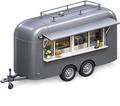
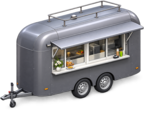
feat(places): add Titanic and construction markers

diff --git a/apps/www/src/components/places/PlaceMap.svelte b/apps/www/src/components/places/PlaceMap.svelte
@@ -1,5 +1,9 @@
 <script lang="ts">
-  import { FOODTRUCK_MARKER } from '@shelkovo/ui/markers';
+  import {
+    CONSTRUCTION_MARKER,
+    FOODTRUCK_MARKER,
+    TITANIC_MARKER,
+  } from '@shelkovo/ui/markers';
   import { onMount } from 'svelte';
 
   import {
@@ -19,7 +23,9 @@
     [PLACE_MAP_BOUNDS.minLng, PLACE_MAP_BOUNDS.minLat],
     [PLACE_MAP_BOUNDS.maxLng, PLACE_MAP_BOUNDS.maxLat],
   ];
-  const VIEW_MARGIN: ymaps3.Margin = [64, 32, 48, 32];
+  const VIEW_MARGIN: ymaps3.Margin = [112, 80, 32, 80];
+  const BOUNDS_PADDING_RATIO = 0.3;
+  const roundCoordinate = (value: number): number => Number(value.toFixed(6));
   const CUSTOM_MARKER_IMAGES: Readonly<
     Record<
       PlaceMarker,
@@ -27,6 +33,31 @@
     >
   > = {
     foodtruck: FOODTRUCK_MARKER,
+    titanic: TITANIC_MARKER,
+    construction: CONSTRUCTION_MARKER,
+  };
+  const getPlaceBounds = (): ymaps3.LngLatBounds => {
+    if (places.length < 2) return SETTLEMENT_BOUNDS;
+
+    const longitudes = places.map((place) => place.coordinates.lng);
+    const latitudes = places.map((place) => place.coordinates.lat);
+    const minLng = Math.min(...longitudes);
+    const maxLng = Math.max(...longitudes);
+    const minLat = Math.min(...latitudes);
+    const maxLat = Math.max(...latitudes);
+    const lngPadding = (maxLng - minLng) * BOUNDS_PADDING_RATIO;
+    const latPadding = (maxLat - minLat) * BOUNDS_PADDING_RATIO;
+
+    return [
+      [
+        roundCoordinate(minLng - lngPadding),
+        roundCoordinate(minLat - latPadding),
+      ],
+      [
+        roundCoordinate(maxLng + lngPadding),
+        roundCoordinate(maxLat + latPadding),
+      ],
+    ];
   };
 
   let mapContainer: HTMLDivElement | undefined = $state(undefined);
@@ -99,9 +130,9 @@
     return link;
   };
 
-  const fitSettlement = (): void => {
+  const fitPlaces = (): void => {
     map?.update?.({
-      location: { bounds: SETTLEMENT_BOUNDS, duration: 0 },
+      location: { bounds: getPlaceBounds(), duration: 0 },
       margin: VIEW_MARGIN,
     });
   };
@@ -124,7 +155,11 @@
 
     installYandexMapsRuntimeHeadPersistence();
 
-    const refresh = (): void => fitSettlement();
+    const refresh = (): void => {
+      void waitForStableLayout().then(() => {
+        if (!destroyed) fitPlaces();
+      });
+    };
 
     document.addEventListener('astro:page-load', refresh);
 
@@ -150,7 +185,7 @@
         map = new YMap(
           mapContainer,
           {
-            location: { bounds: SETTLEMENT_BOUNDS },
+            location: { bounds: getPlaceBounds() },
             behaviors: mapBehaviors(),
             mode: 'vector',
           },
@@ -179,7 +214,7 @@
           return marker;
         });
 
-        fitSettlement();
+        fitPlaces();
         isLoading = false;
       } catch (reason) {
         console.error('Places map setup error:', reason);
@@ -254,6 +289,11 @@
     text-decoration: none;
   }
 
+  :global(.place-map-marker[data-marker]) {
+    width: 3rem;
+    height: 3rem;
+  }
+
   :global(.place-map-marker-point) {
     --ui-map-marker-size: 1.4rem;
     --ui-map-marker-border: 0.1875rem solid var(--color-surface-raised);
@@ -265,10 +305,14 @@
   }
 
   :global(.place-map-marker-graphic) {
+    --place-map-marker-state-filter: saturate(1);
+
     display: block;
-    width: 2.5rem;
+    width: 3rem;
     flex: none;
-    filter: drop-shadow(0 0.25rem 0.3rem oklch(24% 0.04 145 / 0.16));
+    filter: var(--place-map-marker-state-filter)
+      drop-shadow(0 0 0.1rem oklch(100% 0 0 / 0.96))
+      drop-shadow(0 0.25rem 0.35rem oklch(24% 0.04 145 / 0.4));
     transition:
       filter 0.15s ease,
       transform 0.15s ease;
@@ -296,9 +340,12 @@
     box-shadow: 0 0 0 0.1875rem var(--color-ring);
   }
 
-  :global(.place-map-marker[data-open='false'] .place-map-marker-point),
-  :global(.place-map-marker[data-open='false'] .place-map-marker-graphic) {
+  :global(.place-map-marker[data-open='false'] .place-map-marker-point) {
     filter: grayscale(1);
+  }
+
+  :global(.place-map-marker[data-open='false'] .place-map-marker-graphic) {
+    --place-map-marker-state-filter: grayscale(1);
   }
 
   :global(.place-map-marker[data-status='planned'] .place-map-marker-point) {

diff --git a/apps/www/src/components/places/tests/PlaceMap.test.ts b/apps/www/src/components/places/tests/PlaceMap.test.ts
@@ -51,6 +51,17 @@ const place: Place = {
   markdownUrl: '/places/burzhuyka/index.md',
   canonical: 'https://kpshelkovo.online/places/burzhuyka/',
 };
+const titanicPlace: Place = {
+  ...place,
+  slug: 'titanic',
+  name: 'Детская площадка «Титаник»',
+  category: 'children',
+  marker: 'titanic',
+  coordinates: { lat: 55.060703, lng: 37.746894 },
+  url: '/places/titanic/',
+  markdownUrl: '/places/titanic/index.md',
+  canonical: 'https://kpshelkovo.online/places/titanic/',
+};
 
 const installYandexMaps = (): void => {
   Object.defineProperty(window, 'ymaps3', {
@@ -157,36 +168,87 @@ describe('PlaceMap', () => {
     expect(mapProps[0]?.behaviors).toEqual(['pinchZoom', 'dblClick']);
   });
 
-  it('uses a custom marker when the place selects one', async () => {
+  it('uses the selected custom marker', async () => {
     vi.stubGlobal('matchMedia', () => ({ matches: false }));
 
     render(PlaceMap, {
-      props: { places: [{ ...place, marker: 'foodtruck' }] },
+      props: {
+        places: [
+          { ...place, marker: 'foodtruck' },
+          titanicPlace,
+          {
+            ...titanicPlace,
+            slug: 'construction',
+            name: 'Строительство',
+            marker: 'construction',
+          },
+        ],
+      },
     });
 
-    await waitFor(() => expect(markerElements).toHaveLength(1));
+    await waitFor(() => expect(markerElements).toHaveLength(3));
 
-    const marker = markerElements[0];
-    const image = marker?.querySelector('img');
+    const markerDetails = markerElements.map((marker) => {
+      const image = marker.querySelector('img');
 
-    expect({
-      marker: marker?.dataset.marker,
-      graphicClass: marker?.querySelector('[aria-hidden="true"]')?.className,
-      imageClass: image?.className,
-      imageDimensions: [image?.width, image?.height],
-      usesDefaultPoint: Boolean(marker?.querySelector('.ui-map-marker')),
-    }).toMatchInlineSnapshot(`
-      {
-        "graphicClass": "place-map-marker-graphic",
-        "imageClass": "place-map-marker-image",
-        "imageDimensions": [
-          120,
-          106,
-        ],
-        "marker": "foodtruck",
-        "usesDefaultPoint": false,
-      }
+      return {
+        marker: marker.dataset.marker,
+        graphicClass: marker.querySelector('[aria-hidden="true"]')?.className,
+        imageClass: image?.className,
+        imageDimensions: [image?.width, image?.height],
+        imageFile: image?.src.split('/').at(-1),
+        usesDefaultPoint: Boolean(marker.querySelector('.ui-map-marker')),
+      };
+    });
+
+    expect(markerDetails).toMatchInlineSnapshot(`
+      [
+        {
+          "graphicClass": "place-map-marker-graphic",
+          "imageClass": "place-map-marker-image",
+          "imageDimensions": [
+            144,
+            128,
+          ],
+          "imageFile": "Foodtruck.png",
+          "marker": "foodtruck",
+          "usesDefaultPoint": false,
+        },
+        {
+          "graphicClass": "place-map-marker-graphic",
+          "imageClass": "place-map-marker-image",
+          "imageDimensions": [
+            144,
+            128,
+          ],
+          "imageFile": "Titanic.png",
+          "marker": "titanic",
+          "usesDefaultPoint": false,
+        },
+        {
+          "graphicClass": "place-map-marker-graphic",
+          "imageClass": "place-map-marker-image",
+          "imageDimensions": [
+            144,
+            141,
+          ],
+          "imageFile": "Construction.png",
+          "marker": "construction",
+          "usesDefaultPoint": false,
+        },
+      ]
     `);
-    expect(image?.src).toMatch(/Foodtruck\.png/u);
+    expect(mapProps[0]?.location.bounds).toMatchInlineSnapshot(`
+      [
+        [
+          37.707046,
+          55.060473,
+        ],
+        [
+          37.75609,
+          55.060756,
+        ],
+      ]
+    `);
   });
 });

diff --git a/packages/ui/src/markers/index.ts b/packages/ui/src/markers/index.ts
@@ -1,7 +1,21 @@
+import constructionMarkerUrl from './Construction.png?url';
 import foodtruckMarkerUrl from './Foodtruck.png?url';
+import titanicMarkerUrl from './Titanic.png?url';
+
+export const CONSTRUCTION_MARKER = {
+  src: constructionMarkerUrl,
+  width: 144,
+  height: 141,
+} as const;
 
 export const FOODTRUCK_MARKER = {
   src: foodtruckMarkerUrl,
-  width: 120,
-  height: 106,
+  width: 144,
+  height: 128,
+} as const;
+
+export const TITANIC_MARKER = {
+  src: titanicMarkerUrl,
+  width: 144,
+  height: 128,
 } as const;

diff --git a/packages/ui/tests/icons.visual.local.spec.ts b/packages/ui/tests/icons.visual.local.spec.ts
@@ -16,7 +16,7 @@ test.describe('Icons visual', () => {
       target.getByRole('heading', { name: 'Каталог иконок' }),
     ).toBeVisible();
     await expect(target.locator('[data-icon-item]')).toHaveCount(20);
-    await expect(target.locator('[data-marker-item]')).toHaveCount(1);
+    await expect(target.locator('[data-marker-item]')).toHaveCount(3);
 
     await expect(target).toHaveScreenshot('icons-catalog.png', screenshot);
   });

diff --git a/apps/www/src/lib/places/schema.ts b/apps/www/src/lib/places/schema.ts
@@ -11,7 +11,7 @@ export const PLACE_CATEGORIES = [
 ] as const;
 export type PlaceCategory = (typeof PLACE_CATEGORIES)[number];
 
-export const PLACE_MARKERS = ['foodtruck'] as const;
+export const PLACE_MARKERS = ['foodtruck', 'titanic', 'construction'] as const;
 export type PlaceMarker = (typeof PLACE_MARKERS)[number];
 
 export const PLACE_STATUSES = [

diff --git a/apps/www/src/data/places/AGENTS.md b/apps/www/src/data/places/AGENTS.md
@@ -6,7 +6,7 @@
 - В `location` хранить `map_url`, понятный `address` и точные `coordinates` с числовыми `lat` и `lng`.
 - `location.coordinates` задает основную точку места и будущую точку подписи. Линии и полигоны добавлять как GeoJSON features или соседний `[slug].geojson`, когда появится их renderer; не кодировать сложную геометрию произвольными полями frontmatter.
 - Поддерживаемые категории: `entrance`, `children`, `sport`, `walking`, `food`, `services`, `nature`, `water`, `infrastructure`.
-- `marker` — необязательный кастомный маркер. Без него карта рисует стандартную точку; сейчас поддерживается `foodtruck`.
+- `marker` — необязательный кастомный маркер. Без него карта рисует стандартную точку; сейчас поддерживаются `foodtruck`, `titanic` и `construction`.
 - Поддерживаемые статусы: `existing`, `planned`, `underConstruction`.
 - Для `planned` и `underConstruction` обязателен блок `evidence` с `source_url` и `checked_at`.
 - Не публиковать точные координаты частных домов и чувствительной инфраструктуры без отдельного редакционного решения.

diff --git a/apps/www/src/data/places/titanic.md b/apps/www/src/data/places/titanic.md
@@ -1,0 +1,14 @@
+---
+title: Детская площадка «Титаник»
+category: children
+marker: titanic
+status: existing
+updated_at: 2026-08-19
+summary: Детская площадка в виде корабля на Центральной улице в ТСН «Шелково»
+location:
+  map_url: 'https://yandex.ru/maps/?ll=37.746894%2C55.060703&z=18&pt=37.746894%2C55.060703'
+  address: ТСН «Шелково», Центральная улица
+  coordinates:
+    lat: 55.060703
+    lng: 37.746894
+---
